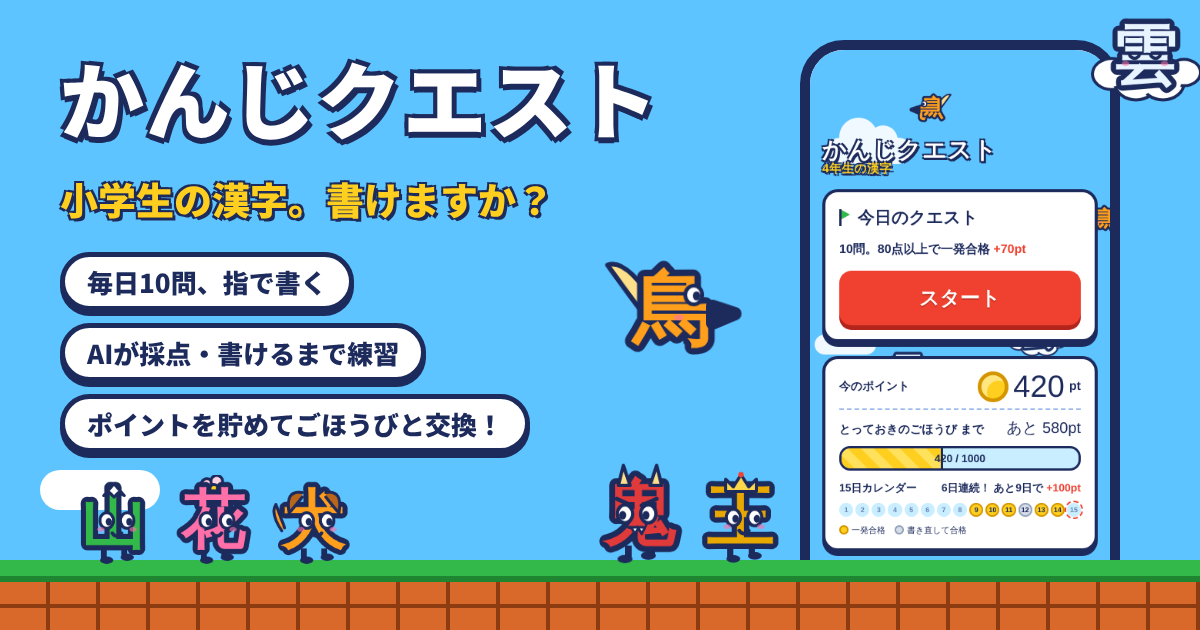
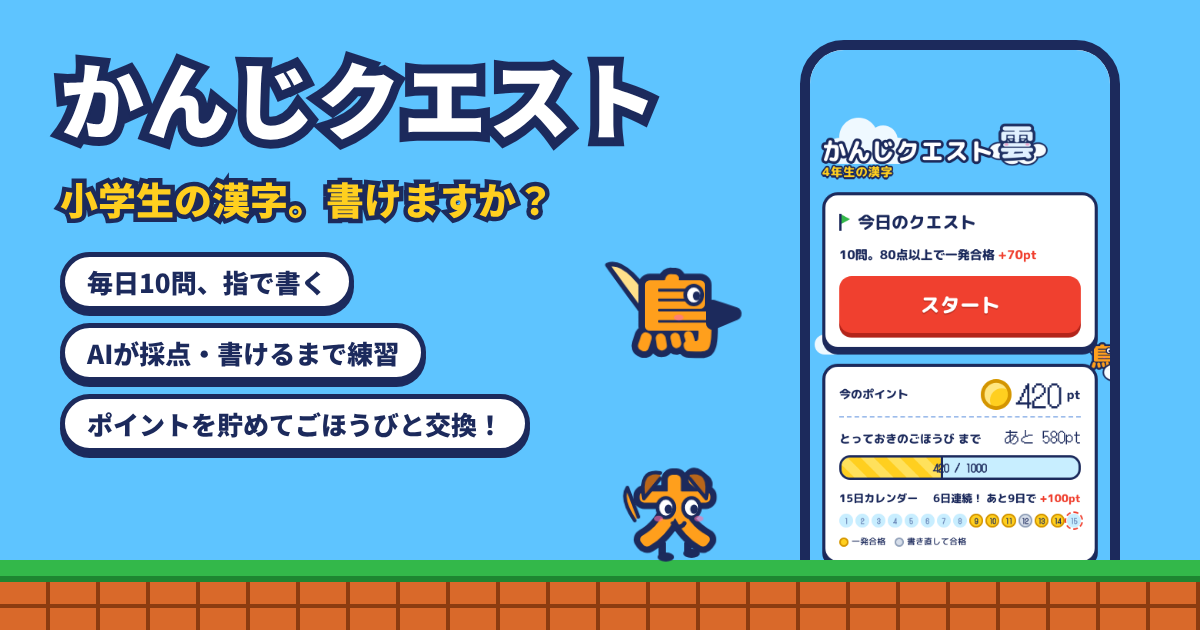
ロゴを丸ゴシックに統一、シェア画像のキャラを2体に、画像は実際のキャラと同じ書体で作成
Claude-Session: https://claude.ai/code/session_01FmakvVfJpLi1M4Guy7drd2

diff --git a/index.html b/index.html
@@ -80,9 +80,9 @@ button:focus-visible{outline:4px solid var(--ink);outline-offset:3px}
 .c2{width:80px;height:26px;top:300px;left:-10px}.c2::before{width:36px;height:36px;left:12px;top:-18px}.c2::after{width:28px;height:28px;left:40px;top:-12px}
 #home>*{position:relative;z-index:1}
 .top{display:flex;align-items:center;justify-content:space-between;gap:12px;flex-wrap:wrap}
-.logo{font-family:var(--f-pixel);font-size:clamp(28px,8vw,40px);line-height:1.05;color:#fff;
-  text-shadow:3px 3px 0 var(--ink),-2px -2px 0 var(--ink),2px -2px 0 var(--ink),-2px 2px 0 var(--ink),0 3px 0 var(--ink);letter-spacing:.02em}
-.logo small{display:block;font-size:.5em;color:var(--yellow)}
+.logo{font-family:var(--f-body);font-weight:800;font-size:clamp(28px,8vw,40px);line-height:1.1;color:#fff;letter-spacing:.02em;
+  -webkit-text-stroke:.22em var(--ink);paint-order:stroke fill;text-shadow:0 .1em 0 var(--ink)}
+.logo small{display:block;font-size:.5em;color:var(--yellow);-webkit-text-stroke:.24em var(--ink);margin-top:2px}
 .wallet{display:flex;align-items:center;gap:8px;background:var(--ink);color:#fff;border-radius:999px;padding:8px 16px 8px 10px;font-size:22px}
 .wallet .num{font-family:var(--f-pixel);font-variant-numeric:tabular-nums}
 .wallet .unit{font-size:13px;color:var(--yellow)}
@@ -188,7 +188,7 @@ button:focus-visible{outline:4px solid var(--ink);outline-offset:3px}
 #welcome>*{position:relative;z-index:1}
 .wl-hero{text-align:center;padding-top:28px;display:flex;flex-direction:column;gap:10px;align-items:center}
 .wl-logo{font-size:clamp(40px,12vw,60px)}
-.wl-tag{margin:0;font-size:17px;color:#fff;text-shadow:1px 1px 0 var(--ink)}
+.wl-tag{margin:0;font-size:17px;color:#fff;-webkit-text-stroke:4px var(--ink);paint-order:stroke fill}
 #onboard{padding-block:16px;gap:16px}
 .ob-top{display:flex;justify-content:space-between;align-items:center}
 .ob-dots{display:flex;gap:6px}
@@ -1994,9 +1994,7 @@ async function shareCard(o){const N=1080,c=document.createElement('canvas');c.wi
       if(ok){x.arc(cx+cw-26,cy+26,17,0,7)}else{x.moveTo(cx+cw-42,cy+10);x.lineTo(cx+cw-10,cy+42);x.moveTo(cx+cw-10,cy+10);x.lineTo(cx+cw-42,cy+42)}x.stroke()})}
   // 漢字キャラ（地面と空）
   try{if(window.kanjiSprite){const gy=N-90,sz=o.thumbs?118:150,put=(ch,cx,dir)=>{const im=kanjiSprite(ch,dir);x.drawImage(im,cx-sz/2,gy-sz*64/60+6,sz,sz*64/60)};
-      if(o.thumbs){put('山',90,1);put('花',210,1);put('鬼',N-210,-1);put('王',N-90,-1)}
-      else{put('山',100,1);put('花',240,1);put('鬼',N-240,-1);put('王',N-100,-1)}}
-    if(window.skySprite){const b=skySprite('bird',1),c=skySprite('cloud');x.drawImage(c,N-210,20,170,136);x.drawImage(b,40,30,130,104)}}catch(e){}
+      put('山',o.thumbs?100:120,1);put('鬼',N-(o.thumbs?100:120),-1)}}catch(e){}
   x.font=F('800 44px');x.fillStyle='#fff';x.lineWidth=10;x.strokeStyle='#1C2A5C';x.strokeText('#かんじクエスト',N/2,o.thumbs?N-140:775);x.fillText('#かんじクエスト',N/2,o.thumbs?N-140:775);
   if(!o.thumbs){x.font=F('500 34px');x.fillStyle='#1C2A5C';x.fillText(SHARE_URL.replace(/^https?:\/\//,''),N/2,835)}
   return new Promise(r=>c.toBlob(b=>r(b),'image/png'))}
